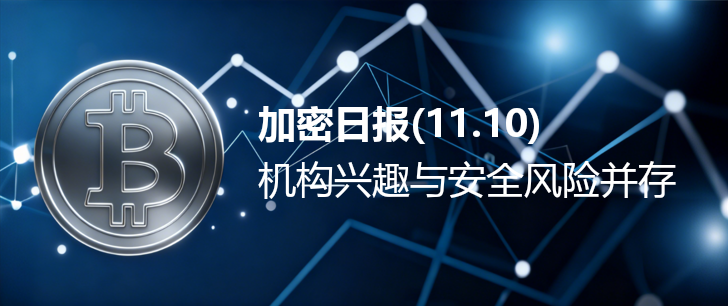
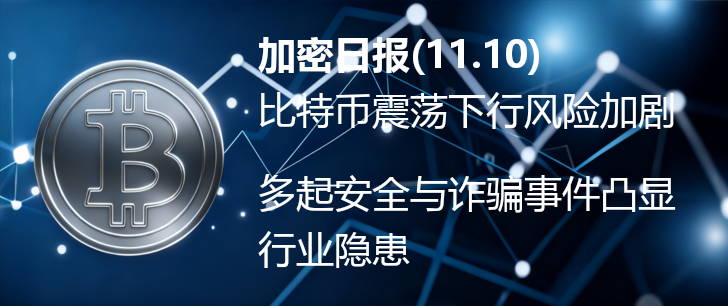
daily_news

diff --git a/files/latest_summary.md b/files/latest_summary.md
@@ -1,33 +1,47 @@
-### 一、比特币市场动态与价格分析
-**总结**：
-1. 比特币价格在区间震荡，技术指标显示空头占优，关键支撑位98,898美元，阻力位104,000–106,000美元，短期内交易量低迷，缺乏明确上涨动力。
-2. 华尔街机构通过ETF等链下交易获得加密货币敞口，但认为区块链技术在速度、可靠性和与传统金融系统整合方面未达机构标准，需升级以吸引更多机构参与链上交易。
+### 一、比特币价格震荡与趋势分析  
+**总结**：  
+1. 比特币当前价格在101,490美元至102,441美元区间震荡，24小时交易量481.4亿美元，市值维持2.04万亿美元，但整体市场情绪谨慎，交易量低迷。  
+2. 技术面指标显示空头占优：主要阻力位在104,000-106,000美元，关键支撑位98,898美元；移动平均线（EMA/SMA）整体下行，MACD指标处于-2,828的看空水平，但短期（1小时/4小时）存在微弱上行倾向。  
+3. 市场趋势偏空：更低的高点和不温不火的交易量表明买家动力不足，若跌破98,000美元或触发进一步下行风险。  
 
-**参考**：
-- [比特币价格观察：尽管价格区间震荡，bearish 阴云仍在徘徊](https://news.bitcoin.com/zh/bi-te-bi-jia-ge-guan-cha-jin-guan-jia-ge-qu-jian-zhen-dang-bearish-yin-yun-reng-zai-pai-huan/)
-- [华尔街看好加密货币的上涨潜力，但对其技术持保留态度](https://www.coindesk.com/zh/opinion/2025/11/04/wall-street-is-bought-in-on-crypto-s-upside-potential-but-not-its-tech)
-
-
-### 二、稳定币监管与实验进展
-**总结**：
-1. 日本PIP稳定币实验获得金融服务局支持，可能涉及代币化结算和智能合约应用，监管对稳定币的认可可能推动其在合规框架下发展。
-
-**参考**：
-- [日本PIP稳定币实验获得金融服务局支持](https://news.bitcoin.com/zh/ri-ben-pip-wen-ding-bi-shi-yan-huo-de-jin-rong-fu-wu-ju-zhi-chi/)
+**参考**：  
+- [比特币价格观察：尽管价格区间震荡，bearish 阴云仍在徘徊](https://news.bitcoin.com/zh/bi-te-bi-jia-ge-guan-cha-jin-guan-jia-ge-qu-jian-zhen-dang-bearish-yin-yun-reng-zai-pai-huan/)  
+- [比特币价格观察：尽管价格区间震荡，bearish 阴云仍徘徊](https://news.bitcoin.com/zh/bi-te-bi-jia-ge-guan-cha-jin-guan-jia-ge-qu-jian-zhen-dang-bearish-yin-yun-reng-zai-pai-huan/)  
 
 
-### 三、DeFi安全事件与市场资金流向
-**总结**：
-1. DeFi协议遭遇安全漏洞：Balancer因V2池漏洞被攻击，损失超1.16亿美元；Stream Finance因外部基金经理问题导致稳定币XUSD脱锚至0.24美元，损失9300万美元。
-2. 市场资金流向分化：Solana ETF表现优异，资金流入显著；而比特币和以太坊ETF出现资金流出，合计超3.2亿美元。
+### 二、日本PIP稳定币实验获监管支持  
+**总结**：  
+1. 日本PIP稳定币实验获得金融服务局支持，第三阶段将专注于代币化资产作为信贷操作的抵押品注册。  
+2. 项目最终目标仍包括发行数字货币及构建支持智能合约的综合平台，但面临技术挑战：需平衡交易隐私与监管监督需求，实施进度尚未明确。  
 
-**参考**：
-- [Balancer 漏洞、Stream Finance 崩溃和Solana ETF 的耀眼表现—— 周度回顾](https://news.bitcoin.com/zh/balancer-loudong-stream-finance-bengkui-he-solana-etf-de-yaoyan-biaoxian-zhoudu-huigu/)
+**参考**：  
+- [日本PIP稳定币实验获得金融服务局支持](https://news.bitcoin.com/zh/ri-ben-pip-wen-ding-bi-shi-yan-huo-de-jin-rong-fu-wu-ju-zhi-chi/)  
 
 
-### 四、加密货币犯罪与执法案例
-**总结**：
-1. 西班牙宪兵逮捕涉嫌2.6亿欧元加密货币庞氏骗局的头目，打击加密货币领域的非法金融活动。
+### 三、DeFi平台安全漏洞与稳定币崩溃事件  
+**总结**：  
+1. DeFi协议Balancer因V2池智能合约漏洞被攻击，导致超1.16亿美元资金流失，短期可能削弱市场对DeFi的信心，但长期或推动智能合约审查。  
+2. Stream Finance因外部基金经理爆仓，其稳定币XUSD价格暴跌至0.24美元，损失达9300万美元，反映外部管理风险对DeFi项目的冲击。  
 
-**参考**：
+**参考**：  
+- [Balancer 漏洞、Stream Finance 崩溃和 Solana ETF 的耀眼表现—— 周度回顾](https://news.bitcoin.com/zh/balancer-loudong-stream-finance-bengkui-he-solana-etf-de-yaoyan-biaoxian-zhoudu-huigu/)  
+
+
+### 四、机构对加密市场的多空观点与策略分析  
+**总结**：  
+1. 机构唱多与预测：Coinbase投研认为比特币市占率下降表明主力转向山寨币以吸引散户资金，Tom Lee预测年底比特币价格达20万美元、以太坊7000美元。  
+2. 技术与机构顾虑：华尔街机构看好加密货币上涨潜力，但指出区块链性能不足（如速度慢、拥堵）导致机构仍依赖链下交易，需提升技术以吸引更多资金。  
+3. 市场策略：短期比特币趋势延续但波动加剧，长期关注山寨币机会，认为机构正从“稳健上涨”转向“题材轮动”以激活市场流动性。  
+
+**参考**：  
+- [Coinbase 投研开始正式唱多、Tom Lee 再次放话年底 BTC 20 万、ETH7000，美股那边连分析师](https://www.binance.com/zh-CN/square/post/32151130930570)  
+- [华尔街看好加密货币的上涨潜力，但对其技术持保留态度](https://www.coindesk.com/zh/opinion/2025/11/04/wall-street-is-bought-in-on-crypto-s-upside-potential-but-not-its-tech)  
+
+
+### 五、西班牙破获2.6亿欧元加密货币庞氏骗局  
+**总结**：  
+1. 西班牙宪兵逮捕涉嫌策划2.6亿欧元加密货币庞氏骗局的头目，涉案资金主要来自虚假投资承诺，反映加密货币诈骗案件仍高发。  
+2. 监管机构通过执法行动打击加密诈骗，维护市场秩序与投资者权益，此类案件凸显加密领域风险管控的重要性。  
+
+**参考**：  
 - [西班牙宪兵逮捕涉嫌2.6亿欧元加密货币庞氏骗局的头目](https://www.coindesk.com/zh/business/2025/11/09/spain-s-civil-guard-arrests-alleged-leader-of-260m-euro-crypto-linked-ponzi-scheme)

diff --git a/files/latest_summary_cleaned.md b/files/latest_summary_cleaned.md
@@ -1,13 +1,21 @@
-### 一、比特币市场动态与价格分析
-1. 比特币价格在区间震荡，技术指标显示空头占优，关键支撑位98,898美元，阻力位104,000–106,000美元，短期内交易量低迷，缺乏明确上涨动力。
-2. 华尔街机构通过ETF等链下交易获得加密货币敞口，但认为区块链技术在速度、可靠性和与传统金融系统整合方面未达机构标准，需升级以吸引更多机构参与链上交易。
+### 一、比特币价格震荡与趋势分析  
+1. 比特币当前价格在101,490美元至102,441美元区间震荡，24小时交易量481.4亿美元，市值维持2.04万亿美元，但整体市场情绪谨慎，交易量低迷。  
+2. 技术面指标显示空头占优：主要阻力位在104,000-106,000美元，关键支撑位98,898美元；移动平均线（EMA/SMA）整体下行，MACD指标处于-2,828的看空水平，但短期（1小时/4小时）存在微弱上行倾向。  
+3. 市场趋势偏空：更低的高点和不温不火的交易量表明买家动力不足，若跌破98,000美元或触发进一步下行风险。  
 
-### 二、稳定币监管与实验进展
-1. 日本PIP稳定币实验获得金融服务局支持，可能涉及代币化结算和智能合约应用，监管对稳定币的认可可能推动其在合规框架下发展。
+### 二、日本PIP稳定币实验获监管支持  
+1. 日本PIP稳定币实验获得金融服务局支持，第三阶段将专注于代币化资产作为信贷操作的抵押品注册。  
+2. 项目最终目标仍包括发行数字货币及构建支持智能合约的综合平台，但面临技术挑战：需平衡交易隐私与监管监督需求，实施进度尚未明确。  
 
-### 三、DeFi安全事件与市场资金流向
-1. DeFi协议遭遇安全漏洞：Balancer因V2池漏洞被攻击，损失超1.16亿美元；Stream Finance因外部基金经理问题导致稳定币XUSD脱锚至0.24美元，损失9300万美元。
-2. 市场资金流向分化：Solana ETF表现优异，资金流入显著；而比特币和以太坊ETF出现资金流出，合计超3.2亿美元。
+### 三、DeFi平台安全漏洞与稳定币崩溃事件  
+1. DeFi协议Balancer因V2池智能合约漏洞被攻击，导致超1.16亿美元资金流失，短期可能削弱市场对DeFi的信心，但长期或推动智能合约审查。  
+2. Stream Finance因外部基金经理爆仓，其稳定币XUSD价格暴跌至0.24美元，损失达9300万美元，反映外部管理风险对DeFi项目的冲击。  
 
-### 四、加密货币犯罪与执法案例
-1. 西班牙宪兵逮捕涉嫌2.6亿欧元加密货币庞氏骗局的头目，打击加密货币领域的非法金融活动。
+### 四、机构对加密市场的多空观点与策略分析  
+1. 机构唱多与预测：Coinbase投研认为比特币市占率下降表明主力转向山寨币以吸引散户资金，Tom Lee预测年底比特币价格达20万美元、以太坊7000美元。  
+2. 技术与机构顾虑：华尔街机构看好加密货币上涨潜力，但指出区块链性能不足（如速度慢、拥堵）导致机构仍依赖链下交易，需提升技术以吸引更多资金。  
+3. 市场策略：短期比特币趋势延续但波动加剧，长期关注山寨币机会，认为机构正从“稳健上涨”转向“题材轮动”以激活市场流动性。  
+
+### 五、西班牙破获2.6亿欧元加密货币庞氏骗局  
+1. 西班牙宪兵逮捕涉嫌策划2.6亿欧元加密货币庞氏骗局的头目，涉案资金主要来自虚假投资承诺，反映加密货币诈骗案件仍高发。  
+2. 监管机构通过执法行动打击加密诈骗，维护市场秩序与投资者权益，此类案件凸显加密领域风险管控的重要性。  
